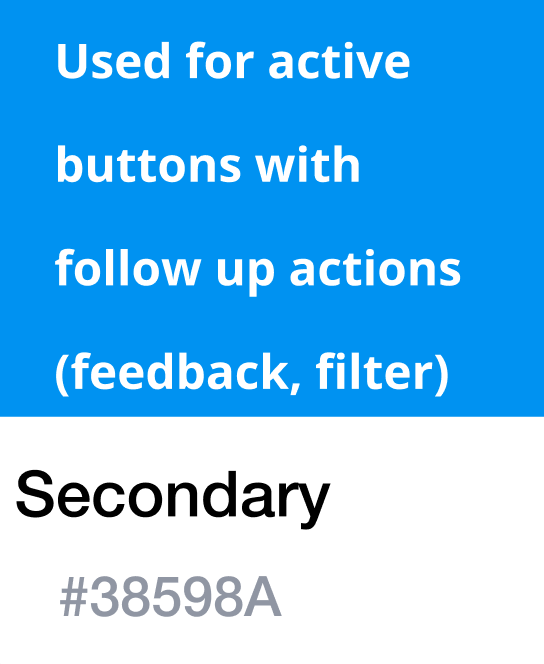
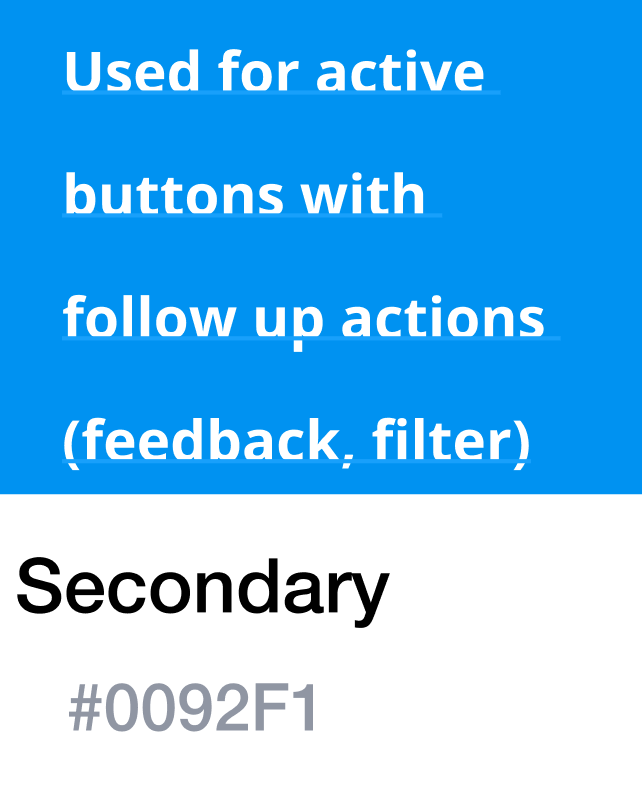
v3

diff --git a/Tools/Design/README.md b/Tools/Design/README.md
@@ -43,12 +43,6 @@ The B.C. Government colour palette ensures all public facing government services
 
 #### State Colours
 
-<img src="images/error.png" alt="Colors" width="70" />
-<img src="images/links.png" alt="Colors" width="70" />
-<img src="images/background.png" alt="Colors" width="70" />
-<img src="images/navigation-bar.png" alt="Colors" width="70" />
-<img src="images/comment-icons.png" alt="Colors" width="70" />
-
 Color Codes
 
 ```
@@ -61,7 +55,7 @@ Input Text #606060
 Accent #FCBA19
 Links #1A5A96
 Navigation Bar #38598A
-Secondary Text #0092F1
+Secondary Text #606060
 Background #F2F2F2
 ```
 
@@ -71,7 +65,7 @@ Or color live examples
 
 Describe the buttons
 
-<img src="images/buttons.png" alt="Buttons" width="70%" />
+<img src="images/buttons.png" alt="Buttons" width="100%" />
 
 ### Icons
 
@@ -80,5 +74,3 @@ Describe the icons
 <img src="images/icon-typeface.png" alt="Icon and Typeface" width="100%" />
 
 ## Other examples
-
-<img src="images/mobile-sample.png" alt="Mobile Example" width="50%" />
